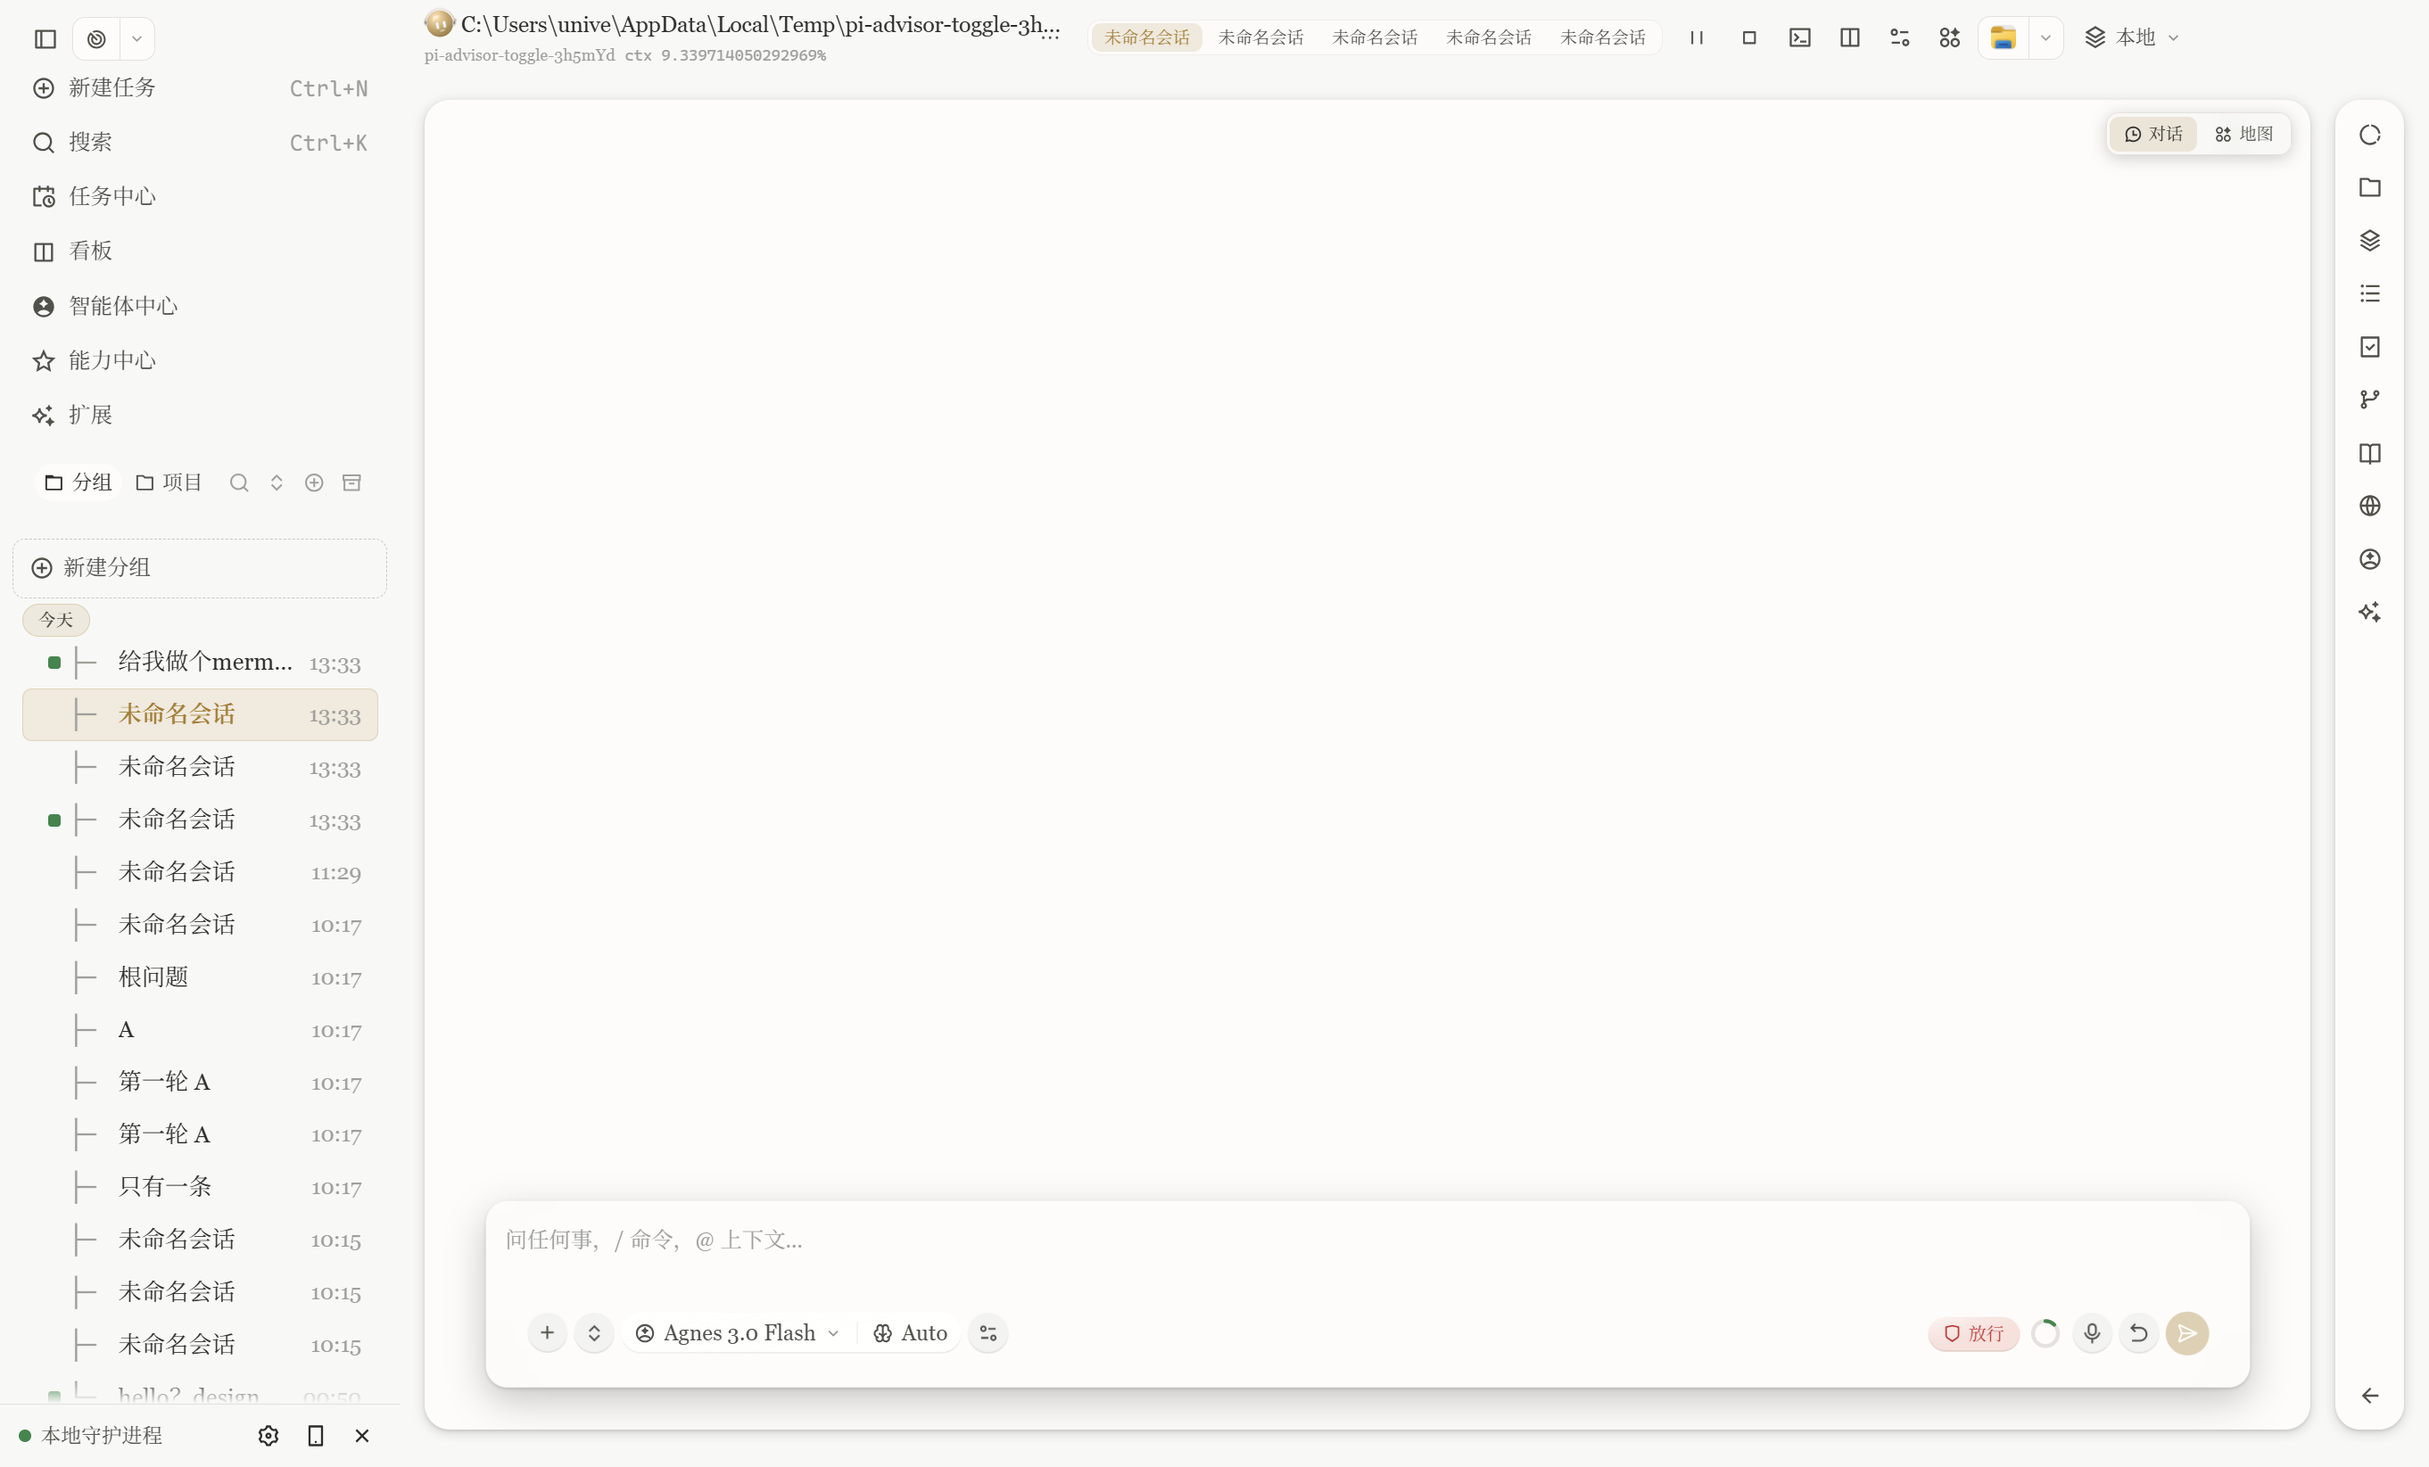
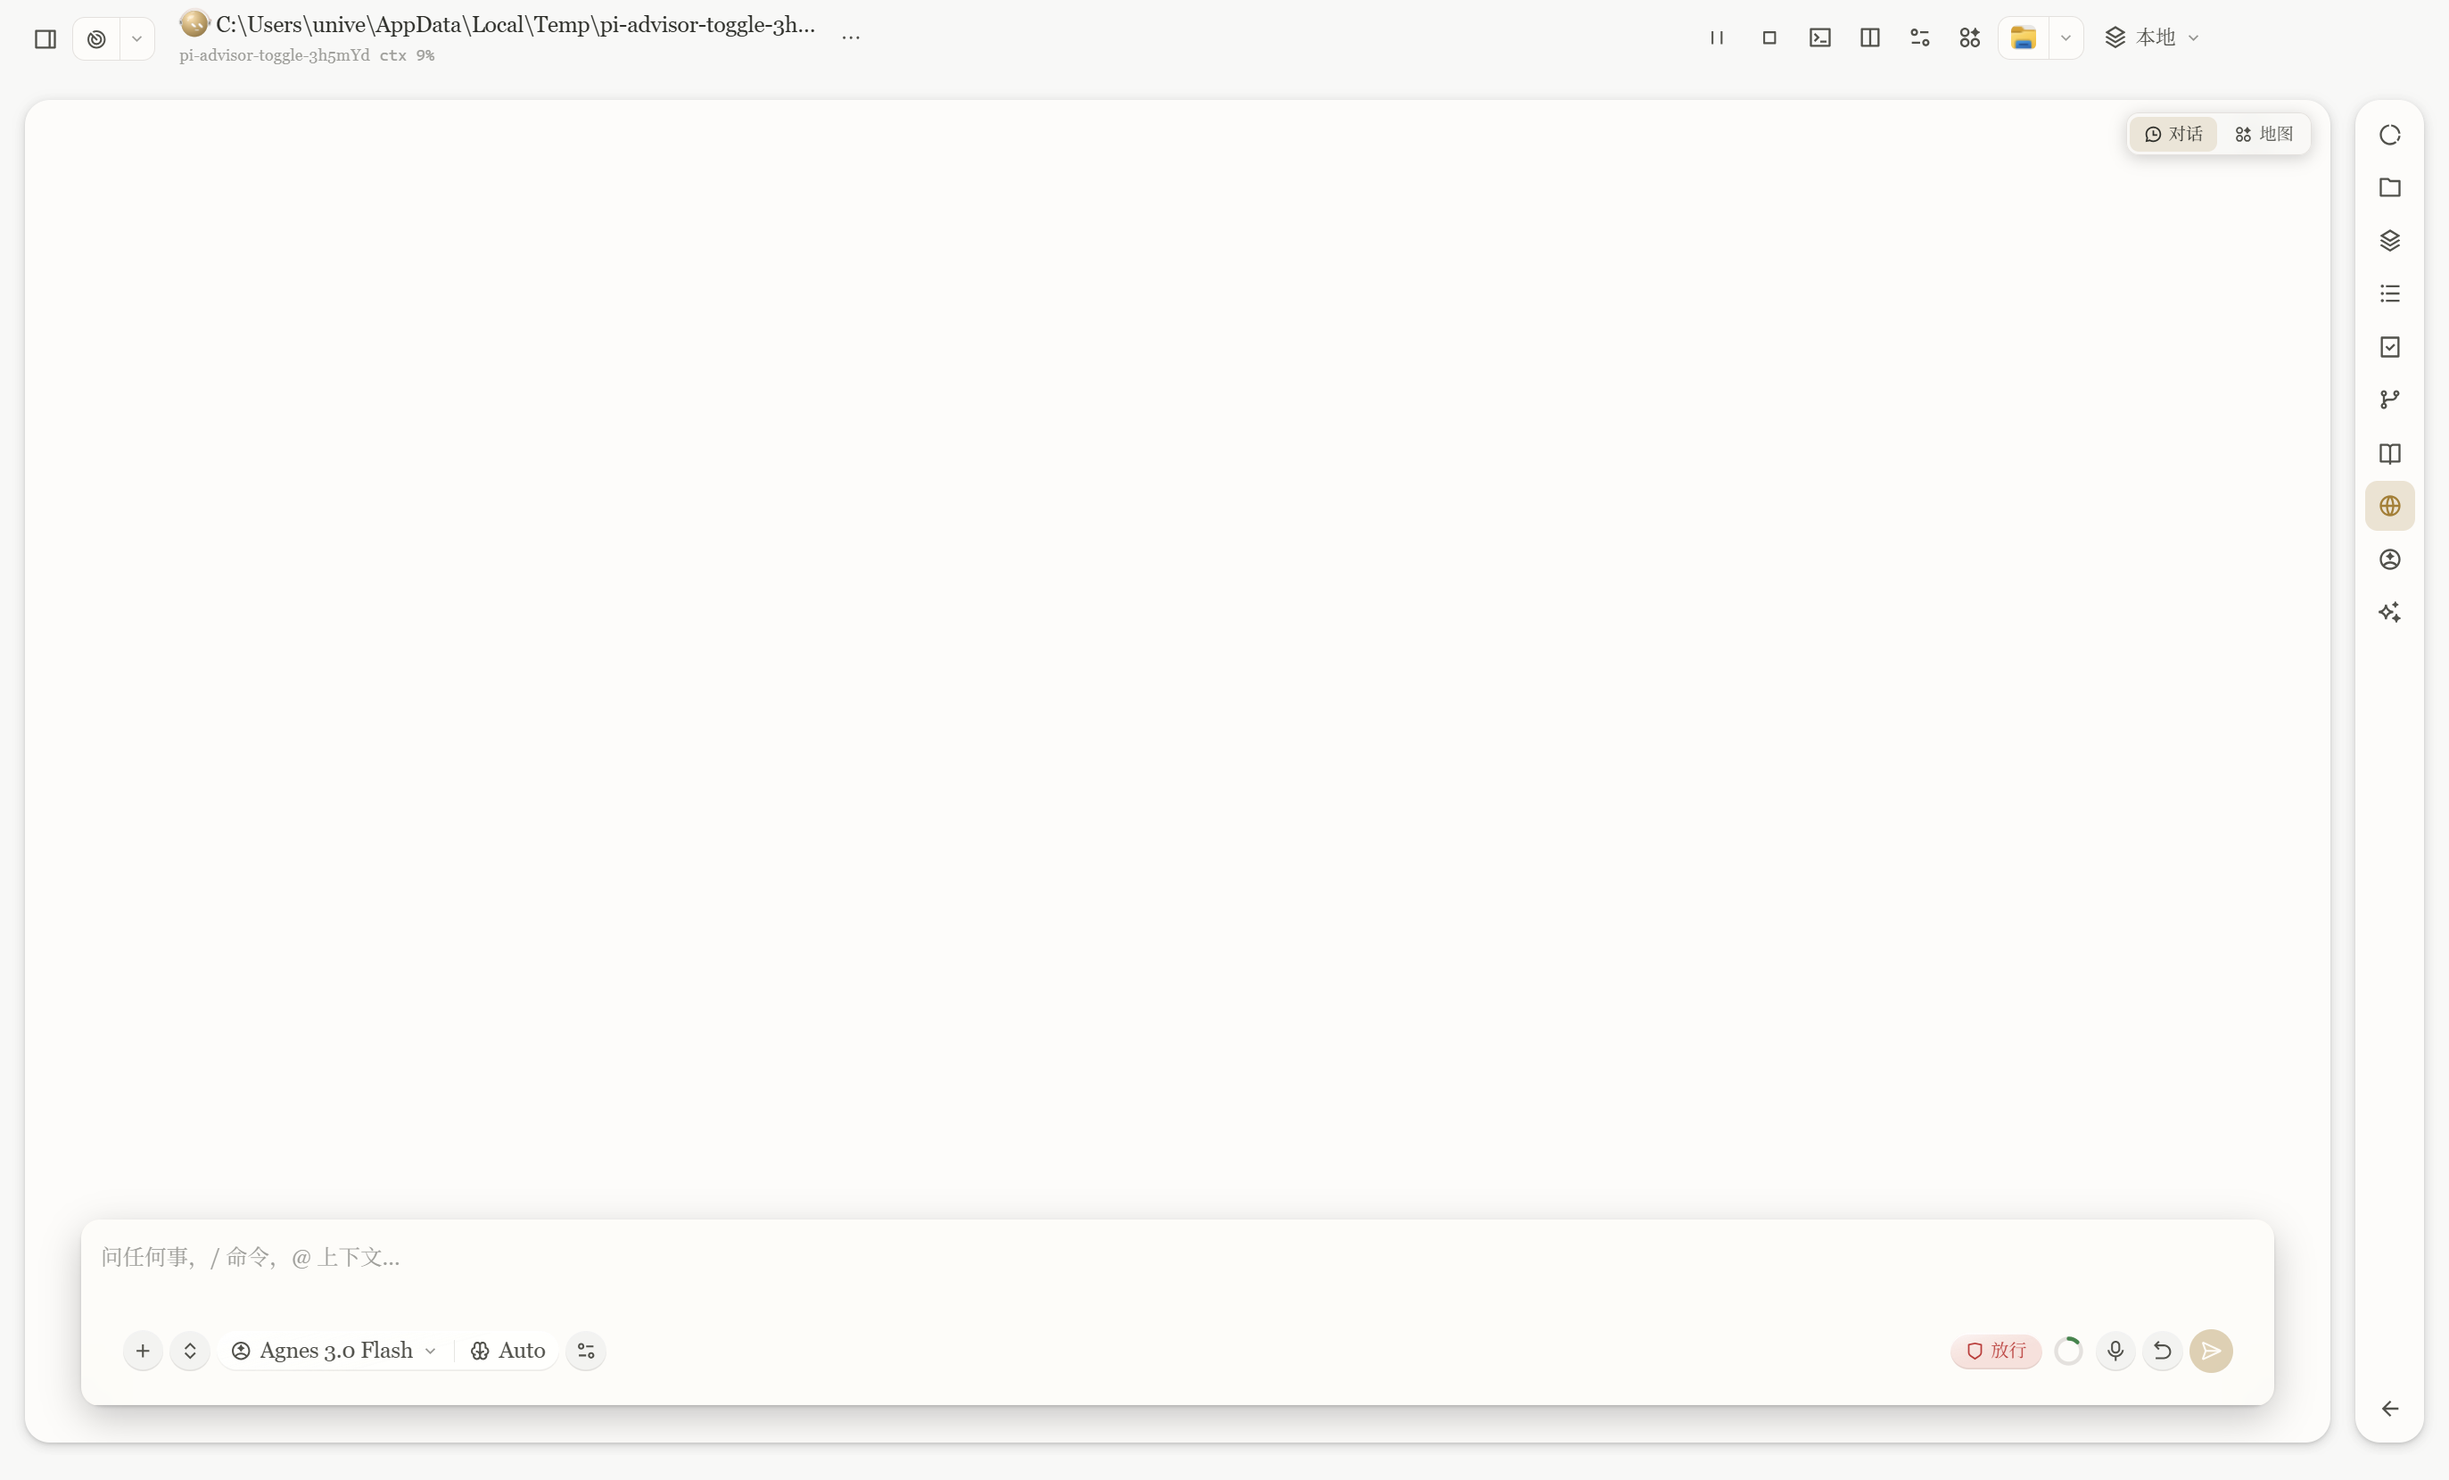
fix(desktop): remove inline header tabs; openchamber-style titlebar spacers fix collapsed-sidebar overlap
- Delete the A2 header tabs strip (评审'四不像'): tabs never sit next to
  the session title in the titlebar. Session navigation returns to the
  switcher dropdown (openchamber SessionSwitcherDropdown parity). If tabs
  ever come back they must carry the title (openchamber sessionTabs mode)
  or live in a content container -- design-doc first (gui-design.md §5t).
- Fix collapsed-sidebar overlap: the fixed float-controls cluster is
  measured by a ResizeObserver and published as
  --gui-float-controls-width; .gui-header-spacer carves that width
  (mac: +68px traffic-light clearance) with a 220ms transition
  (openchamber TitlebarLeftControls carve parity). Removes the broken
  inline paddingLeft hack (mac 172 / win 16).
- New design contract documented as gui-design.md §5t (避让三件套 +
  'no tab in titlebar' principle, benchmarked against openchamber
  TitlebarLeftControls/SidebarTopBar and zcode DESIGN.md).
- Walkthrough step 04 now asserts the session-title pill never
  intersects the float cluster (was: assert tabs strip exists).
- Real-machine verified on win32: titleClearOfFloatControls clear=true
  overlapPx=0 spacerPx=91, full walkthrough green.

diff --git a/packages/desktop-app/src/components/GuiHeader.tsx b/packages/desktop-app/src/components/GuiHeader.tsx
@@ -210,7 +210,6 @@ export function GuiHeader({
 	const isWin = shellPlatform() === "win32";
 	const isLinux = shellPlatform() === "linux";
 	const hasOverlay = isWin || isLinux;
-	const isMac = shellPlatform() === "darwin";
 	const [ceiling, setCeiling] = useState<string | null>(null);
 	const projectLabel = snap?.state?.cwd ? projectName(snap.state.cwd) : store ? t("session") : t("local");
 	// Trigger refs for the portaled popups (global z-order above the chat
@@ -220,6 +219,21 @@ export function GuiHeader({
 	const titleMenuBtnRef = useRef<HTMLButtonElement | null>(null);
 	const openInBtnRef = useRef<HTMLButtonElement | null>(null);
 	const instanceBtnRef = useRef<HTMLButtonElement | null>(null);
+	// §5t titlebar avoidance: the fixed float cluster publishes its measured
+	// width as --gui-float-controls-width; the collapsed-sidebar spacer carves
+	// exactly that much (openchamber --oc-titlebar-controls-width parity).
+	const floatRef = useRef<HTMLDivElement | null>(null);
+	useEffect(() => {
+		const el = floatRef.current;
+		if (!el) return;
+		const publish = () => {
+			document.documentElement.style.setProperty("--gui-float-controls-width", `${el.offsetWidth}px`);
+		};
+		publish();
+		const ro = new ResizeObserver(publish);
+		ro.observe(el);
+		return () => ro.disconnect();
+	}, []);
 	const [openInOpen, setOpenInOpen] = useState(false);
 	const [projOpen, setProjOpen] = useState(false);
 	const [switcherOpen, setSwitcherOpen] = useState(false);
@@ -696,7 +710,9 @@ export function GuiHeader({
 				store ? " gui-header--session" : " gui-header--welcome"
 			}`}
 			style={{
-				...(sideCollapsed ? { paddingLeft: isMac ? 172 : 16 } : {}),
+				// Right carve only: native titleBarOverlay hit area (win/linux).
+				// Left clearance is the .gui-header-spacer's job (§5t) — never
+				// an inline paddingLeft guess.
 				...(hasOverlay ? { paddingRight: 150 } : {}),
 			}}
 		>
@@ -705,7 +721,7 @@ export function GuiHeader({
 			 * no-drag reliably. Sidebar toggle + the project-actions capsule
 			 * (auto-discover dev server / stop while running), exactly like
 			 * openchamber's toggle + ProjectActionsButton. */}
-			<div className="gui-float-controls gui-float-controls--overlay">
+			<div className="gui-float-controls gui-float-controls--overlay" ref={floatRef}>
 				<button
 					type="button"
 					className="gui-sidebar-toggle"
@@ -823,6 +839,10 @@ export function GuiHeader({
 					</MenuPopup>
 				</div>
 			</div>
+			{/* §5t collapsed-sidebar carve spacer: reserves the float
+			 * cluster's measured width so the session-title pill never
+			 * slides underneath it (openchamber no-drag carve parity). */}
+			<div className="gui-header-spacer" data-collapsed={sideCollapsed ? "true" : undefined} aria-hidden="true" />
 			<div className="flex min-w-0 flex-1 items-center gap-0.5">
 				{/* Session title = switcher trigger (openchamber
 				 * SessionSwitcherDropdown parity): clicking opens 新建会话 +
@@ -1030,35 +1050,6 @@ export function GuiHeader({
 								<span>{t("delete session")}</span>
 							</button>
 						</MenuPopup>
-					</div>
-				)}
-				{/* Session tabs strip (openchamber SessionTabsStrip parity,
-				 * §3.1 A2): standing navigation when the sidebar is collapsed
-				 * or several sessions are open — the switcher dropdown stays
-				 * the history+new surface. Left click switches, middle click
-				 * closes (deleteSession owns the confirm dialog). */}
-				{(sideCollapsed || sessions.length >= 3) && store && sessions.length > 0 && (
-					<div className="gui-header-tabs" role="tablist" aria-label={t("recent sessions")}>
-						{sessions.slice(0, 5).map(s => {
-							const active = store.sessionId === s.id;
-							const label = s.label.trim() || t("untitled session");
-							return (
-								<button
-									key={s.id}
-									type="button"
-									role="tab"
-									aria-selected={active}
-									className={`gui-header-tab${active ? " gui-header-tab--active" : ""}`}
-									title={label}
-									onClick={() => onSelectSession(s.id)}
-									onAuxClick={e => {
-										if (e.button === 1) void onDeleteSession(s.id);
-									}}
-								>
-									{label}
-								</button>
-							);
-						})}
 					</div>
 				)}
 			</div>

diff --git a/packages/desktop-app/scripts/verify-shell-batches.ts b/packages/desktop-app/scripts/verify-shell-batches.ts
@@ -181,7 +181,8 @@ try {
 	report.sessionError = String(e);
 }
 
-// 04 collapse the sidebar → session tabs strip. State-aware: if the
+// 04 collapse the sidebar → the session-title pill must stay clear of the
+// fixed float-controls cluster (§5t carve spacer). State-aware: if the
 // sidebar is already collapsed (toggle offers 打开侧边栏), expand it
 // first so this step always demonstrates the collapse transition.
 try {
@@ -193,12 +194,19 @@ try {
 		await sleep(700);
 	}
 	report.sidebarToggled = await evaluate<boolean>(`(${CLICK})(".gui-sidebar-toggle")`);
-	await sleep(700);
-	report.tabsStrip = await evaluate<{ shown: boolean; tabs: number }>(`({
-	shown: !!document.querySelector(".gui-header-tabs"),
-	tabs: document.querySelectorAll(".gui-header-tab").length,
-})`);
-	await shot("04-tabs-strip.png");
+	await sleep(1000);
+	report.titleClearOfFloatControls = await evaluate<{ clear: boolean; overlapPx: number; spacerPx: number }>(`(() => {
+	const title = document.querySelector(".gui-header-title");
+	const float = document.querySelector(".gui-float-controls--overlay");
+	const spacer = document.querySelector(".gui-header-spacer");
+	if (!title || !float) return { clear: false, overlapPx: -1, spacerPx: -1 };
+	const a = title.getBoundingClientRect();
+	const b = float.getBoundingClientRect();
+	const ox = Math.max(0, Math.min(a.right, b.right) - Math.max(a.left, b.left));
+	const oy = Math.max(0, Math.min(a.bottom, b.bottom) - Math.max(a.top, b.top));
+	return { clear: ox * oy === 0, overlapPx: ox * oy, spacerPx: spacer ? Math.round(spacer.getBoundingClientRect().width) : -1 };
+	})()`);
+	await shot("04-collapsed-title-clear.png");
 } catch (e) {
 	report.tabsError = String(e);
 }

diff --git a/packages/desktop-app/src/styles/gui-chrome.css b/packages/desktop-app/src/styles/gui-chrome.css
@@ -1218,48 +1218,6 @@
 	color: var(--color-text);
 }
 
-/* ── Session tabs strip (openchamber SessionTabsStrip parity, A2) ────── */
-/* Segmented capsule standing next to the session title when the sidebar
- * is collapsed or several sessions are open. */
-.gui-header-tabs {
-	display: flex;
-	align-items: center;
-	gap: 2px;
-	margin-left: 8px;
-	padding: 2px;
-	border-radius: var(--radius-lg);
-	background: color-mix(in oklab, var(--color-surface) 75%, transparent);
-	border: 1px solid color-mix(in oklab, var(--border) 55%, transparent);
-}
-
-.gui-header-tab {
-	max-width: 110px;
-	padding: 1px 8px;
-	border: none;
-	border-radius: var(--radius-md);
-	background: transparent;
-	color: var(--color-text-muted);
-	font-size: 11px;
-	line-height: 16px;
-	white-space: nowrap;
-	overflow: hidden;
-	text-overflow: ellipsis;
-	cursor: pointer;
-	transition:
-		background 120ms ease-out,
-		color 120ms ease-out;
-}
-
-.gui-header-tab:hover {
-	background: var(--color-surface-raised);
-	color: var(--color-text);
-}
-
-.gui-header-tab--active {
-	background: color-mix(in oklab, var(--color-accent) 14%, transparent);
-	color: var(--color-accent);
-}
-
 /* ── Title sub-row chips (A2): git branch + context usage ────────────── */
 .gui-header-subrow {
 	display: flex;

diff --git a/packages/desktop-app/src/styles/gui-chat.css b/packages/desktop-app/src/styles/gui-chat.css
@@ -983,6 +983,26 @@ body.gui-resizing .gui-pane-resize-x::after {
 	left: 16px;
 }
 
+/* §5t collapsed-sidebar carve spacer: the float cluster is position:fixed,
+ * so the header flow reserves its measured width or the session-title pill
+ * slides underneath it (openchamber no-drag carve parity). Width comes from
+ * --gui-float-controls-width, published by GuiHeader's ResizeObserver. */
+.gui-header-spacer {
+	flex-shrink: 0;
+	width: 0;
+	transition: width 220ms ease;
+}
+
+.gui-header-spacer[data-collapsed="true"] {
+	width: calc(var(--gui-float-controls-width, 86px) + 8px);
+}
+
+/* macOS: the cluster anchors at left:84 (traffic-light clearance), so the
+ * spacer additionally covers 84 − 16 baseline padding. */
+:root[data-platform="darwin"] .gui-header-spacer[data-collapsed="true"] {
+	width: calc(68px + var(--gui-float-controls-width, 86px) + 8px);
+}
+
 .gui-sidebar-toggle {
 	display: flex;
 	height: 26px;
